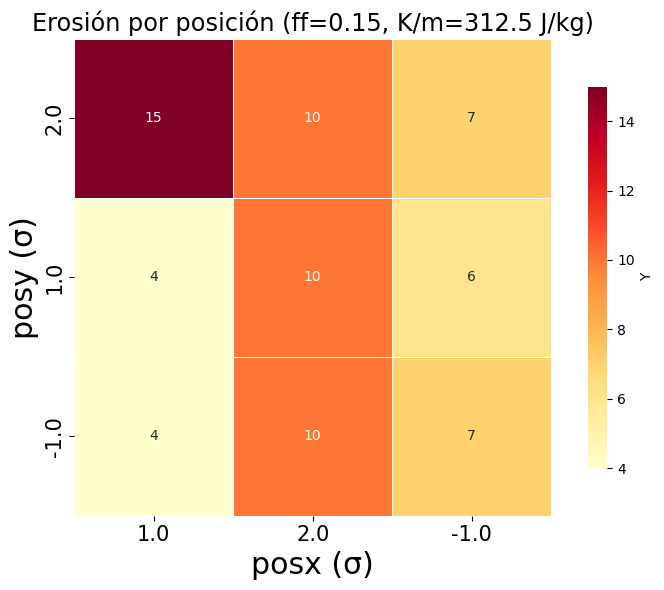
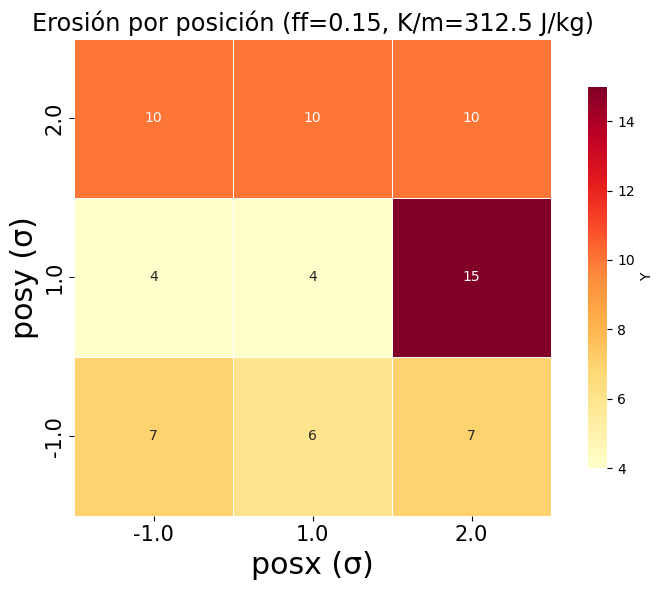
revisiones finales del codigo de corrida en el cluster

diff --git a/Programas/ANALISIS/kinematics_calc.py b/Programas/ANALISIS/kinematics_calc.py
@@ -1,90 +1,28 @@
-"""Módulo de cálculos cinemáticos para visualizaciones de erosión.
-
-Contiene funciones para el grid de posiciones y heatmap.
-"""
-
-import numpy as np
 import pandas as pd
 
 
-def get_grid_positions(df: pd.DataFrame) -> list[float]:
-    """Obtiene las posiciones únicas de x y y del dataframe completo.
-
-    Args:
-        df: DataFrame con todos los datos.
-
-    Returns:
-        Lista de posiciones únicas de x y y.
-    """
-    return list(set(df["posx"].unique()))
-
-
 def get_grid_pairs(df: pd.DataFrame) -> list[tuple[float, float]]:
-    """Obtiene los pares únicos de posx/posy del dataframe completo.
-
-    Args:
-        df: DataFrame con todos los datos.
-
-    Returns:
-        Lista de tuplas (posx, posy) únicas.
-    """
-    x = df["posx"].unique()
-    y = df["posy"].unique()
-    pos = []
-    not_found = []
-    for x_val in x:
-        for y_val in y:
-            if df[(df["posx"] == x_val) & (df["posy"] == y_val)].empty:
-                not_found.append((x_val, y_val))
-                continue
-            else:
-                pos.append((x_val, y_val))
-    return pos, not_found
+    """Obtiene los pares únicos de posx/posy del dataframe completo."""
+    # Extrae pares únicos de forma instantánea usando un set
+    return list(set(zip(df["posx"], df["posy"])))
 
 
-def compute_heatmap_data(
-    df: pd.DataFrame,
-    ff: float,
-    vel0: float,
-) -> pd.DataFrame:
-    """Calcula partículas erosionadas por posición usando el último time step.
-
-    Args:
-        df: DataFrame con datos.
-        ff: Factor de fricción.
-        vel0: Velocidad inicial.
-
-    Returns:
-        DataFrame pivot con IDs por posición, índices y columnas normalizados por 1.52.
-    """
+def compute_heatmap_data(df: pd.DataFrame, ff: float, vel0: float) -> pd.DataFrame:
+    """Calcula partículas erosionadas por posición usando el último time step."""
     df_filt = df[(df["ff"] == ff) & (df["vel0"] == vel0)]
-    max_i = df_filt["i"].max()
-    df_filt = df_filt[df_filt["i"] == max_i]
+    if df_filt.empty:
+        return pd.DataFrame()
 
+    max_i = df_filt["i"].max()
     df_validas = df_filt[
-        (df_filt["type"] == 1) | ((df_filt["type"] == 2) & (df_filt["z"] > 1e-4))
+        (df_filt["i"] == max_i)
+        & ((df_filt["type"] == 1) | ((df_filt["type"] == 2) & (df_filt["z"] > 1e-4)))
     ]
 
-    use_pairs, not_found = get_grid_pairs(df_validas)
-    grid_positions = get_grid_positions(df_validas)
+    # Agrupa por coordenadas, cuenta el tamaño y unstack crea el heatmap 2D automáticamente
+    pivot = df_validas.groupby(["posy", "posx"]).size().unstack()
 
-    grouped = df_validas.groupby(["posx", "posy"]).size().reset_index(name="id")
-    grouped = grouped.set_index(["posx", "posy"])["id"]
-
-    result = {}
-    for posx, posy in use_pairs:
-        result[(posx, posy)] = grouped.get((posx, posy), 0)
-
-    result.update({k: np.nan for k in not_found})
-
-    pivot = pd.DataFrame(
-        result.values(),
-        index=pd.MultiIndex.from_tuples(result.keys(), names=["posy", "posx"]),
-    ).unstack(level="posx")
-
-    pivot = pivot.droplevel(0, axis=1)
-    pivot = pivot.reindex(index=grid_positions, columns=grid_positions)
-
+    # Normaliza índices y columnas
     pivot.index = (pivot.index / 1.52).round(2)
     pivot.columns = (pivot.columns / 1.52).round(2)
 

diff --git a/Programas/ANALISIS/main.py b/Programas/ANALISIS/main.py
@@ -1,9 +1,3 @@
-"""Script principal de análisis de datos LAMMPS.
-
-Orquesta la generación de visualizaciones para el análisis de erosión
-en simulaciones de impacto proyectil-cama.
-"""
-
 import matplotlib.pyplot as plt
 from confidence_intervals import run_confidence_intervals
 from constants import CSV_PATH, FF_VALUES, SALIDA_DIR
@@ -14,66 +8,39 @@ from pandas import read_csv
 
 
 def save_figure(fig: plt.Figure, path: str) -> None:
-    """Guarda una figura en archivo PNG.
-
-    Args:
-        fig: Figura de matplotlib.
-        path: Ruta del archivo de salida.
-    """
     if fig and fig.get_axes():
         plt.savefig(path, bbox_inches="tight")
         plt.close(fig)
 
 
 def run_analysis() -> None:
-    """Ejecuta el pipeline completo de análisis."""
     print("Cargando datos...")
     df = read_csv(CSV_PATH)
-    print(f"Datos cargados: {len(df)} filas")
 
-    # Grid de posiciones (calculado una vez para todas las simulaciones)
     grid_pairs = get_grid_pairs(df)
-    print(f"Grid de posiciones: {len(grid_pairs)} pares\n")
+    print(f"Datos: {len(df)} filas. Grid: {len(grid_pairs)} pares\n")
 
     SALIDA_DIR.mkdir(parents=True, exist_ok=True)
-
-    # Tablas de intervalos de confianza (van primero en el PDF)
-    print("Generando tablas de intervalos de confianza...")
     figuras = run_confidence_intervals()
-    print(f"Tablas de IC generadas: {len(figuras)}\n")
-
     valores_vel0 = sorted(df["vel0"].unique())
 
     for ff in FF_VALUES:
         dir_ff = SALIDA_DIR / f"ff_{ff}"
         dir_ff.mkdir(parents=True, exist_ok=True)
 
-        print(f"Procesando ff={ff}...")
-
-        # Boxplot de erosión
-        fig_box = plot_erosion_boxplot(df, ff)
-        if fig_box and fig_box.get_axes():
+        if fig_box := plot_erosion_boxplot(df, ff):
             figuras.append(fig_box)
             save_figure(fig_box, dir_ff / "ids_boxplot.png")
 
-        # Por cada vel0
         for vel0 in valores_vel0:
-            print(f"  vel0={vel0}...")
-
-            # Heatmap de erosión
-            fig_heat = plot_erosion_heatmap(df, ff, vel0)
-            if fig_heat and fig_heat.get_axes():
+            if fig_heat := plot_erosion_heatmap(df, ff, vel0):
                 figuras.append(fig_heat)
                 save_figure(fig_heat, dir_ff / f"heatmap_erosion_{vel0}.png")
 
-    # PDF final
-    pdf_final = SALIDA_DIR / "resultado_final.pdf"
-    print(f"Generando PDF final: {pdf_final}")
-    with PdfPages(pdf_final) as pdf:
+    with PdfPages(SALIDA_DIR / "resultado_final.pdf") as pdf:
         for fig in figuras:
             if fig and fig.get_axes():
                 pdf.savefig(fig)
-
     print(f"¡Listo! Figuras en {SALIDA_DIR}")
 
 

diff --git a/Programas/ANALISIS/cluster_calc.py b/Programas/ANALISIS/cluster_calc.py
@@ -82,39 +82,18 @@ def compute_unique_ids_raw_with_positions(
 
 
 def compute_erosion_counts_with_zeros(
-    df: pd.DataFrame,
-    ff: float,
-    grid_pairs: list[tuple[float, float]],
+    df: pd.DataFrame, ff: float, grid_pairs: list[tuple[float, float]]
 ) -> dict[float, np.ndarray]:
-    """Calcula conteos de erosión por posición, incluyendo ceros.
-
-    Args:
-        df: DataFrame completo.
-        ff: Factor de fricción.
-        grid_pairs: Lista de posiciones válidas (posx, posy).
-
-    Returns:
-        dict[vel0] = array numpy con conteos (algunos pueden ser 0).
-    """
-
+    """Calcula conteos de erosión por posición de forma optimizada."""
     df_filt = filter_erosion(df, ff)
 
-    existing_pairs = set(zip(df_filt["posx"], df_filt["posy"]))
+    # Pre-calcular conteos por (vel0, posx, posy) en un diccionario rápido
+    grouped = df_filt.groupby(["vel0", "posx", "posy"])["id"].nunique().to_dict()
 
     result = {}
     for vel0 in df_filt["vel0"].unique():
-        df_vel = df_filt[df_filt["vel0"] == vel0]
-
-        counts = []
-        for posx, posy in grid_pairs:
-            if (posx, posy) in existing_pairs:
-                count = df_vel[(df_vel["posx"] == posx) & (df_vel["posy"] == posy)][
-                    "id"
-                ].nunique()
-                counts.append(count)
-            else:
-                counts.append(0)
-
+        # Busca en el diccionario en O(1), si no existe pone 0
+        counts = [grouped.get((vel0, px, py), 0) for px, py in grid_pairs]
         result[vel0] = np.array(counts, dtype=float)
 
     return result

diff --git a/Programas/cluster/read_config.py b/Programas/cluster/read_config.py
@@ -21,7 +21,6 @@ except ModuleNotFoundError:
     import tomli as tomllib
 
 
-
 def read_config(config_path: Path) -> dict:
     """Lee el archivo TOML y retorna el diccionario crudo.
 
@@ -102,8 +101,7 @@ def main() -> None:
         sys.exit(1)
 
     raw = read_config(config_path)
-    output_path = Path(f"config_vars_{ID}.sh")
-    output_path = "configs" / output_path
+    output_path = Path(f"configs/config_vars_{ID}.sh")
     generate_shell_vars(raw, output_path)
     print(f"Configuración cargada: {config_path} → {output_path}")
 
